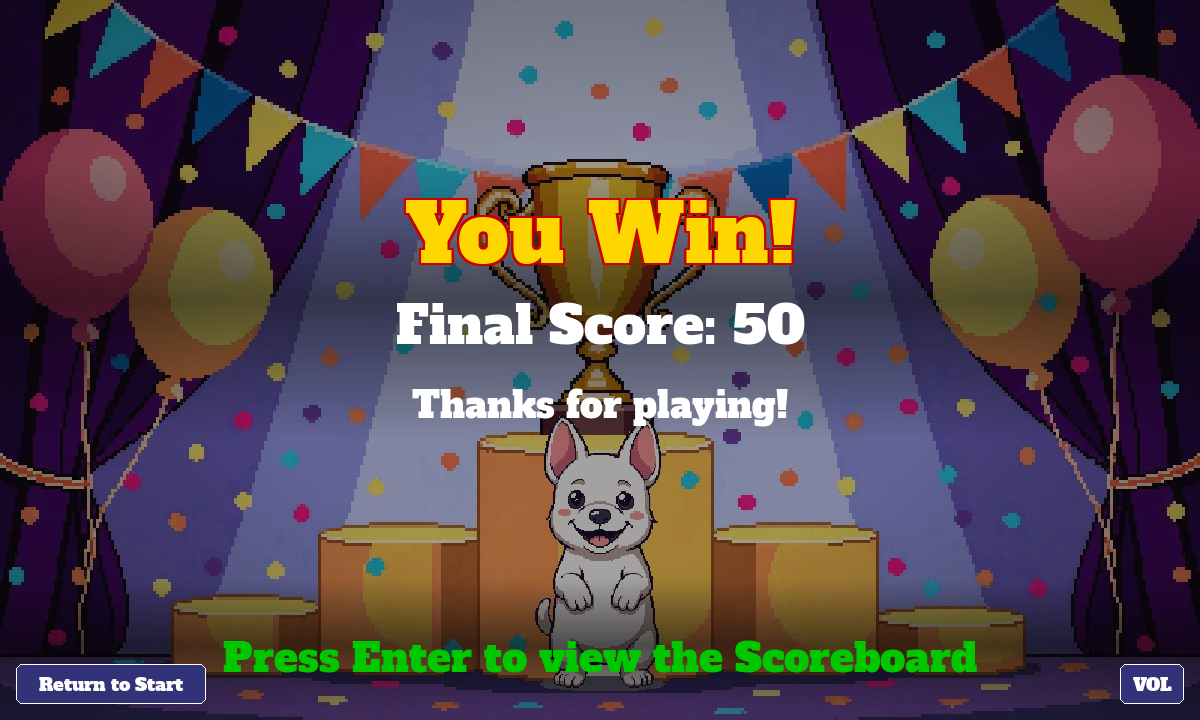
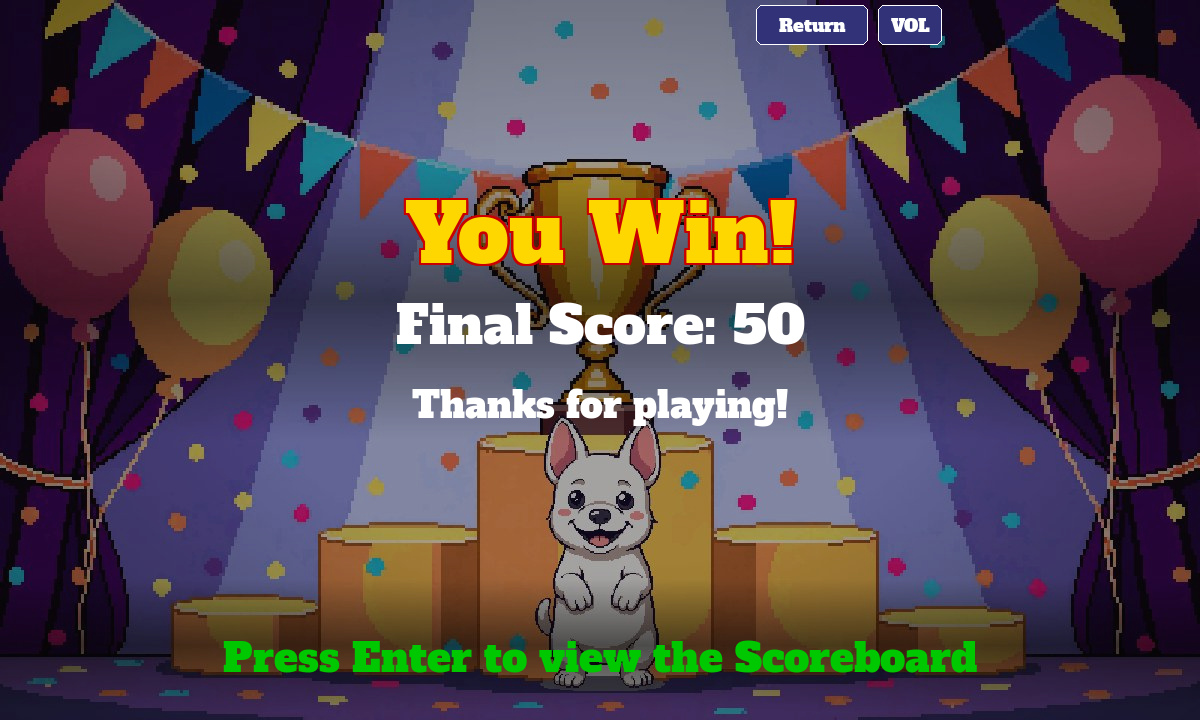
style(ui): move Return/VOL chrome buttons to the top-right, left of the timer
Relocated the persistent buttons from the bottom corners into the top bar gap
just left of the play-screen timer (between the INVINCIBLE! text and the timer).
Shortened "Return to Start" -> "Return" to fit; the volume panel now drops down
below the VOL button. Other screens' titles sit below the button row, so no
overlaps. Regenerated verification screenshots.

Changed region(s): [[0.6167, 0.0, 0.8017, 0.0611], [0.0, 0.9167, 0.185, 0.9778], [0.925, 0.9167, 0.9867, 0.9778]]

diff --git a/game/screens/chrome.py b/game/screens/chrome.py
@@ -29,10 +29,11 @@ import pygame
 from game import config, fonts
 from game.state_machine import GameState
 
-_PAD = 16
+_TOP = 5                     # y of the top button row (centered in the 50px HUD bar)
 _BTN_H = 40
 _GEAR_W = 64                 # "VOL" button
-_RETURN_W = 190             # "Return to Start" button
+_RETURN_W = 112             # "Return" button (compact to fit left of the timer)
+_TIMER_RESERVE = 258         # px kept clear at the right edge for the play-screen timer
 _PANEL_W, _PANEL_H = 280, 132
 _TRACK_W = 150
 _KNOB_R = 9
@@ -55,14 +56,14 @@ class Chrome:
 
         W, H = config.SCREEN_WIDTH, config.SCREEN_HEIGHT
 
-        # Bottom-right VOL button.
-        self._gear = pygame.Rect(W - _PAD - _GEAR_W, H - _PAD - _BTN_H, _GEAR_W, _BTN_H)
-        # Bottom-left Return button.
-        self._return = pygame.Rect(_PAD, H - _PAD - _BTN_H, _RETURN_W, _BTN_H)
+        # Top-right, just left of the (play-screen) timer:  [ Return ] [ VOL ]
+        gear_right = W - _TIMER_RESERVE
+        self._gear = pygame.Rect(gear_right - _GEAR_W, _TOP, _GEAR_W, _BTN_H)
+        self._return = pygame.Rect(self._gear.left - 10 - _RETURN_W, _TOP, _RETURN_W, _BTN_H)
 
-        # Volume panel sits just above the VOL button, right-aligned to it.
+        # Volume panel drops down from below the VOL button, right-aligned to it.
         self._panel = pygame.Rect(
-            self._gear.right - _PANEL_W, self._gear.top - 10 - _PANEL_H, _PANEL_W, _PANEL_H
+            self._gear.right - _PANEL_W, self._gear.bottom + 10, _PANEL_W, _PANEL_H
         )
         track_x = self._panel.left + 92
         self._music_track = pygame.Rect(track_x, self._panel.top + 52, _TRACK_W, 6)
@@ -146,7 +147,7 @@ class Chrome:
     def draw(self) -> None:
         self._draw_button(self._gear, "VOL")
         if self.show_return:
-            self._draw_button(self._return, "Return to Start")
+            self._draw_button(self._return, "Return")
         if self._panel_open:
             self._draw_panel()
         if self._confirm_open:
